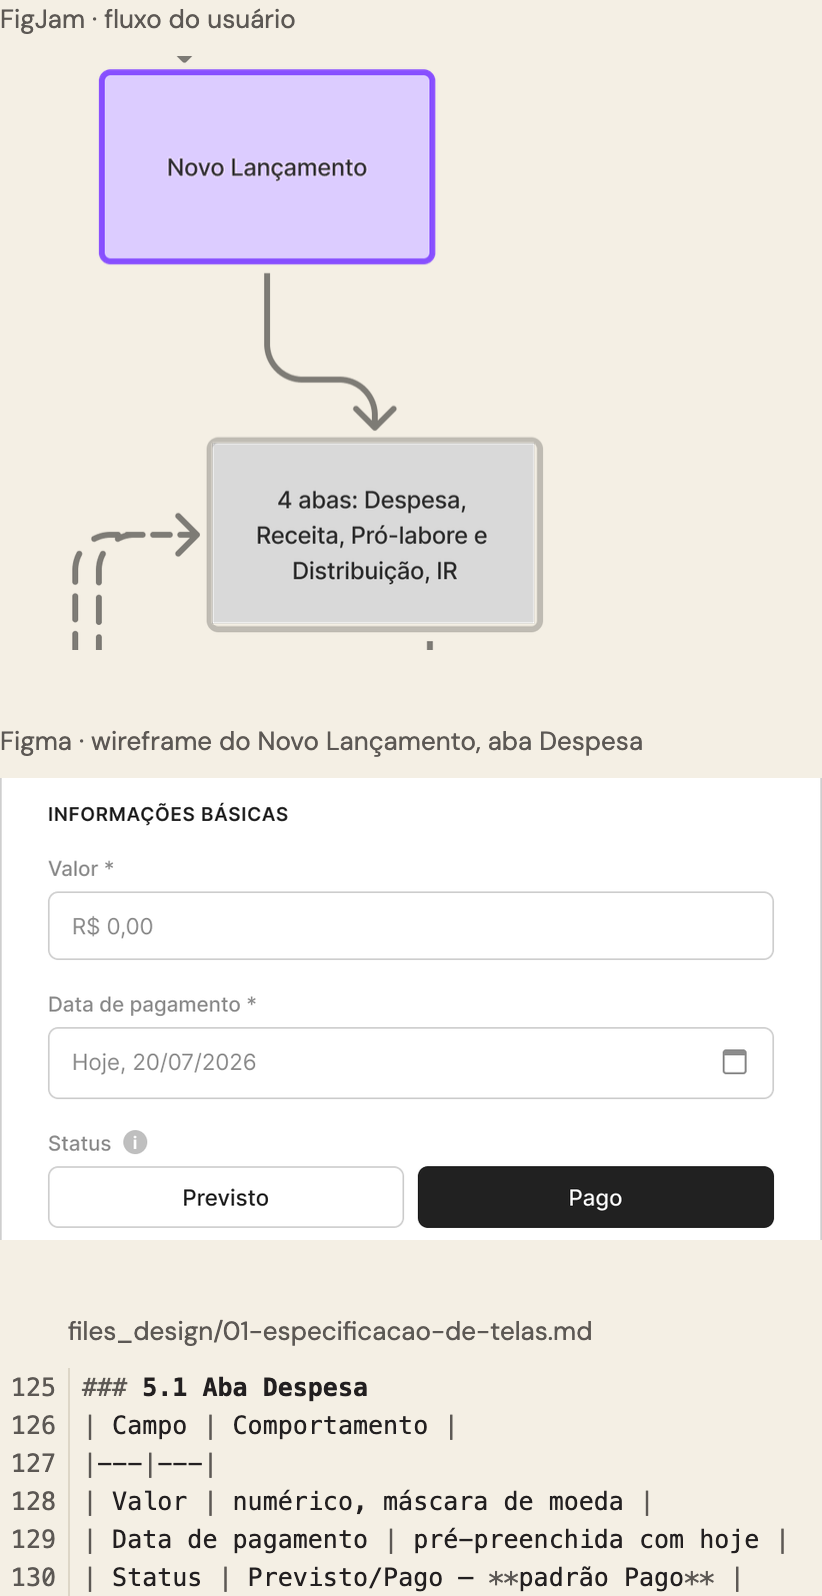
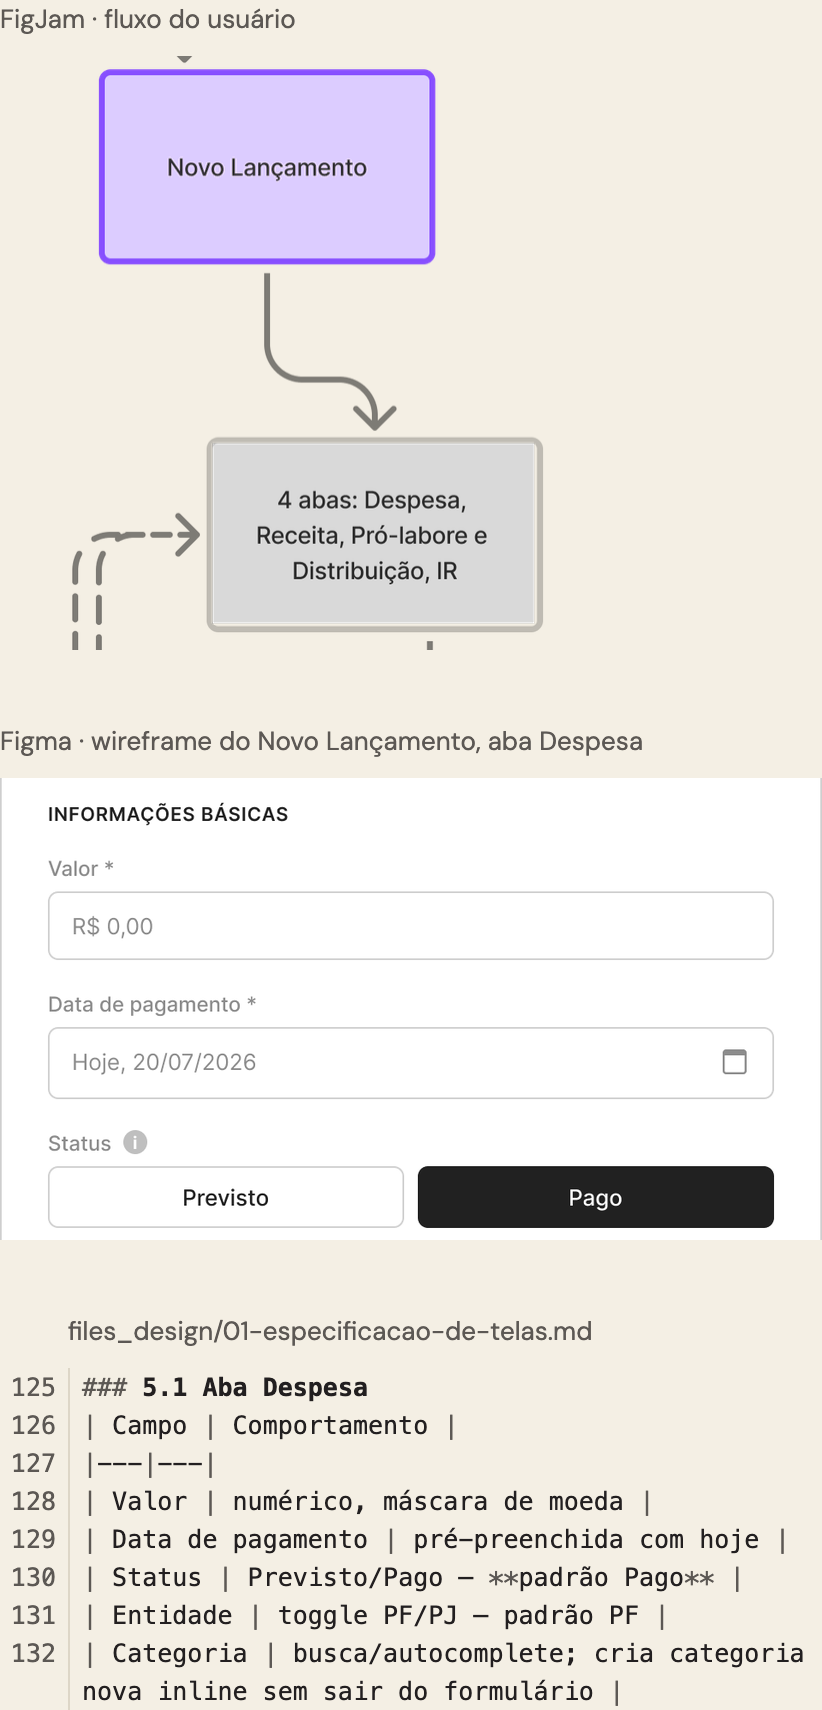
A especificação do capítulo 3 do Finanças vai até a linha 132 (decisão 196)
A mídia passa a 822x1710 nos dois temas; o texto alternativo acompanha.
telas.json e trilha.json relidos: 6709 e 10608. As checagens seguem só com as 7
conhecidas.

diff --git a/case-study-financas-pf-pj.md b/case-study-financas-pf-pj.md
@@ -63,7 +63,7 @@ E a documentação virou artefato de handoff. Para cada tela, escrevi a especifi
 
 Parte da interface é gerada a partir do dado. Então documentei também as regras de renderização: o algoritmo por trás do desenho. Sem isso, quem fosse programar teria que inventar comportamento para cada caso extremo.
 
-![Três trechos do projeto, um acima do outro. Em cima, um recorte do board do FigJam com o fluxo do usuário: a caixa Novo Lançamento leva a 4 abas: Despesa, Receita, Pró-labore e Distribuição, IR; setas tracejadas chegam pela esquerda, cortadas na borda. No meio, o wireframe do Novo Lançamento na aba Despesa, no bloco Informações básicas: o campo Valor com R$ 0,00, a Data de pagamento já preenchida com hoje, 20/07/2026, e o Status com Pago selecionado. Embaixo, as linhas 125 a 130 da especificação de telas, como num editor: Valor numérico com máscara de moeda, Data de pagamento pré-preenchida com hoje, e Status Previsto ou Pago, com padrão Pago.](publico/midias/financas-3-desenho.png)
+![Três trechos do projeto, um acima do outro. Em cima, um recorte do board do FigJam com o fluxo do usuário: a caixa Novo Lançamento leva a 4 abas: Despesa, Receita, Pró-labore e Distribuição, IR; setas tracejadas chegam pela esquerda, cortadas na borda. No meio, o wireframe do Novo Lançamento na aba Despesa, no bloco Informações básicas: o campo Valor com R$ 0,00, a Data de pagamento já preenchida com hoje, 20/07/2026, e o Status com Pago selecionado. Embaixo, as linhas 125 a 132 da especificação de telas, como num editor: Valor numérico com máscara de moeda, Data de pagamento pré-preenchida com hoje, Status Previsto ou Pago com padrão Pago, Entidade com padrão PF, e Categoria com busca e criação de categoria nova sem sair do formulário.](publico/midias/financas-3-desenho.png)
 Legenda: O mesmo Novo Lançamento em três lugares: no fluxo, por que a tela existe; no wireframe, o que a pessoa vê; na especificação, o que cada campo faz.
 
 ---

diff --git a/docs/log-de-decisoes.md b/docs/log-de-decisoes.md
@@ -6556,3 +6556,25 @@ perto de 11 px, abaixo do piso de 13, como no capítulo 3 do Reembolso.
 
 **Consequência.** Figma, as quatro telas; desktop com 6652, estreita com 10563, respiros de 96 e 64.
 Legenda e texto alternativo são rascunho meu.
+
+---
+
+## 196 · A especificação do capítulo 3 volta a mostrar Entidade e Categoria
+
+**Quando** 2026-10-01 · **Fase** 4 · **Domínio** case
+
+**Gatilho.** Publicada a 195, ela pediu *"aumenta a especificação de tela"*: *"mais linhas"*, sem
+mudar o tamanho da letra.
+
+**Decisão.** O trecho da especificação vai de 125 a 132: voltam Entidade (*"padrão PF"*) e Categoria
+(*"cria categoria nova inline sem sair do formulário"*). O wireframe continua cortado no Status. A
+peça passa a 411×855, arquivo em 822×1710.
+
+**Alternativa descartada.** *Letra maior no mesmo trecho*, e *as duas coisas*: ela escolheu só as
+linhas.
+
+**Custo aceito.** A peça fica 57 px mais alta que a da 195, e mais alta que a do capítulo 2. As duas
+linhas novas não têm par no wireframe recortado.
+
+**Consequência.** Figma reajustado: desktop com 6709, estreita com 10608, respiros de 96 e 64. Texto
+alternativo e `midias.json` atualizados.
